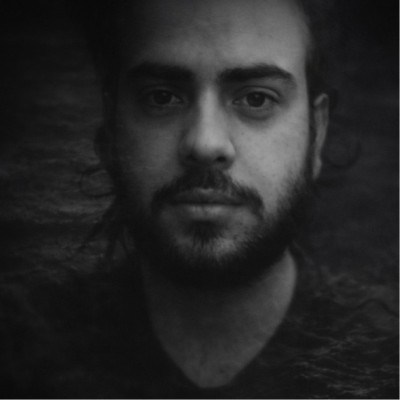
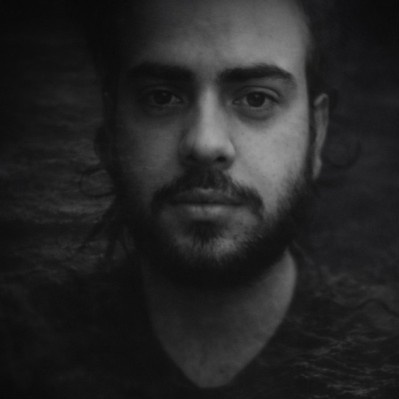
Cards claros no topo e no Metodo, na cor das ilustracoes
A grade colada por linha de 1px criava um emaranhado de divisorias que
competia com a divisoria util, a do resultado. Agora sao cartoes
separados sobre fundo claro, com o mesmo canto arredondado do retrato e
das capas de projeto.

- fundo #e6e2de, amostrado do fundo das proprias ilustracoes
- o laranja da marca da 1,79:1 sobre esse claro e reprova como texto,
  entao as superficies claras usam um laranja escurecido, #8f4400, com
  5,44:1, e cinza #4f5955 no corpo, com 5,63:1
- titulos encurtados para caber em uma linha nas colunas estreitas
- retrato um pouco maior e sem a linha clara de 1px que vinha no arquivo
  original na borda direita e inferior

Changed region(s): [[0.0, 0.0, 1.0, 1.0]]

diff --git a/src/content/profile.ts b/src/content/profile.ts
@@ -30,28 +30,28 @@ export const method: { title: string; principles: Principle[] } = {
   title: "Como eu trabalho",
   principles: [
     {
-      title: "Troca de sistema sem derrubar quem está usando",
+      title: "Troca de sistema sem derrubar ninguém",
       body: "Substituir uma plataforma inteira de uma vez é a forma mais cara de descobrir um erro: quando algo quebra, quebra para todo mundo ao mesmo tempo. Prefiro migrar uma área por vez, com o sistema antigo e o novo funcionando lado a lado, e liberar a versão nova primeiro para uma parte dos usuários. Se o resultado piorar, ela volta ao normal na hora.",
       accent: "signal" as const,
       icon: "entrega" as const,
       result: "Uma área com problema sai do ar em segundos, sem esperar por uma nova publicação.",
     },
     {
-      title: "Tela certa e tela utilizável não são a mesma coisa",
+      title: "Tela certa não é tela utilizável",
       body: "Teste automatizado comum verifica se o botão responde, não se a pessoa consegue ler o que está na frente dela. Em um marketplace que construí, a bateria de testes barrou cinco problemas antes de chegarem ao usuário — e um deles era um texto vazando para fora da tela em telas menores: tudo funcionava, nada se lia.",
       accent: "signal" as const,
       icon: "qualidade" as const,
       result: "Cinco problemas que chegariam ao usuário foram barrados antes do lançamento.",
     },
     {
-      title: "Em produto que cobra, a conta precisa fechar",
+      title: "Em produto que cobra, a conta fecha",
       body: "Dois erros clássicos custam dinheiro de verdade. O primeiro é a sobra de centavo, que some numa venda e aparece quando são milhares. O segundo é o usuário com internet instável que aperta o botão de pagar duas vezes — e paga duas vezes. Resolvo os dois na arquitetura, antes de existir tela: o sistema reconhece a segunda tentativa como a mesma e não cobra de novo.",
       accent: "signal" as const,
       icon: "dados" as const,
       result: "Nenhuma cobrança duplicada quando o usuário repete o pagamento.",
     },
     {
-      title: "Decisão de interface se defende com dado, não com opinião",
+      title: "Interface se defende com dado",
       body: "Acho que a tela ficou melhor não é argumento. Eu meço onde a pessoa desiste no meio do caminho, coloco a versão nova no ar para uma parte dos usuários e comparo o comportamento real das duas antes de abrir para todos. Número encerra discussão que reunião não encerra.",
       accent: "signal" as const,
       icon: "metodo" as const,

diff --git a/src/components/Hero.tsx b/src/components/Hero.tsx
@@ -1,7 +1,7 @@
 import Image from "next/image";
 import { headline, intro, services } from "@/content/profile";
 import { portrait } from "@/content/site";
-import { Container, accentText } from "./primitives";
+import { Container } from "./primitives";
 import { Icon } from "./icons";
 
 export function Hero() {
@@ -32,7 +32,7 @@ export function Hero() {
 
           {portrait.enabled && (
             <div
-              className="rise order-first w-36 shrink-0 sm:w-44 lg:order-none lg:w-[15rem]"
+              className="rise order-first w-36 shrink-0 sm:w-44 lg:order-none lg:w-[17rem]"
               style={{ animationDelay: "160ms" }}
             >
               <Image
@@ -49,20 +49,16 @@ export function Hero() {
         </div>
 
         <div
-          className="rise mt-16 grid gap-px overflow-hidden rounded-xl border border-rule bg-rule lg:grid-cols-3"
+          className="rise mt-16 grid gap-5 lg:grid-cols-3"
           style={{ animationDelay: "500ms" }}
         >
           {services.map((service) => (
-            <article key={service.title} className="bg-surface p-7 sm:p-8">
-              <Icon name={service.icon} size={34} className={accentText[service.accent]} />
-              <h2
-                className={`mt-5 text-lg font-semibold leading-snug tracking-[-0.015em] ${
-                  accentText[service.accent]
-                }`}
-              >
+            <article key={service.title} className="rounded-2xl bg-paper p-7 sm:p-8">
+              <Icon name={service.icon} size={34} className="text-paper-signal" />
+              <h2 className="mt-5 text-balance text-lg font-semibold leading-snug tracking-[-0.015em] text-paper-signal">
                 {service.title}
               </h2>
-              <p className="mt-3 text-base leading-[1.6] text-ink-soft">{service.body}</p>
+              <p className="mt-3 text-base leading-[1.6] text-paper-soft">{service.body}</p>
             </article>
           ))}
         </div>

diff --git a/src/components/sections.tsx b/src/components/sections.tsx
@@ -138,29 +138,21 @@ export function ExperienceTimeline() {
 export function Method() {
   return (
     <Section id="metodo" title={method.title} icon="metodo" accent="probe">
-      <div className="grid gap-px overflow-hidden rounded-sm border border-rule bg-rule lg:grid-cols-2">
+      <div className="grid gap-5 lg:grid-cols-2">
         {method.principles.map((principle) => (
-          <article key={principle.title} className="flex flex-col bg-surface p-7 sm:p-8">
-            <Icon
-              name={principle.icon}
-              size={34}
-              className={accentText[principle.accent]}
-            />
+          <article key={principle.title} className="flex flex-col rounded-2xl bg-paper p-7 sm:p-8">
+            <Icon name={principle.icon} size={34} className="text-paper-signal" />
 
-            <h3
-              className={`mt-5 text-balance text-xl font-semibold leading-snug tracking-[-0.015em] ${
-                accentText[principle.accent]
-              }`}
-            >
+            <h3 className="mt-5 text-balance text-xl font-semibold leading-snug tracking-[-0.015em] text-paper-signal">
               {principle.title}
             </h3>
 
-            <p className="mt-4 flex-1 text-base leading-[1.7] text-ink-soft">
+            <p className="mt-4 flex-1 text-base leading-[1.7] text-paper-soft">
               {principle.body}
             </p>
 
-            <p className="mt-6 flex items-start gap-3 border-t border-rule pt-5 text-base leading-[1.5] text-ink">
-              <Icon name="resultado" size={20} className="mt-0.5 text-signal" />
+            <p className="mt-6 flex items-start gap-3 border-t border-paper-rule pt-5 text-base leading-[1.5] text-paper-ink">
+              <Icon name="resultado" size={20} className="mt-0.5 text-paper-signal" />
               {principle.result}
             </p>
           </article>

diff --git a/src/app/globals.css b/src/app/globals.css
@@ -13,6 +13,12 @@
 
   --color-signal: #fd7901;
   --color-signal-dim: #70380a;
+  --color-paper: #e6e2de;
+  --color-paper-rule: #c9c2bb;
+  --color-paper-ink: #1f2a25;
+  --color-paper-soft: #4f5955;
+  --color-paper-signal: #8f4400;
+
   --color-probe: #56c5dd;
   --color-live: #5fd39a;
   --color-craft: #b092ee;

diff --git a/src/content/site.ts b/src/content/site.ts
@@ -39,7 +39,7 @@ export const nav = [
 export const portrait = {
   src: "/claudio.jpg",
   alt: "Claudio Alvarenga",
-  width: 400,
-  height: 400,
+  width: 399,
+  height: 399,
   enabled: true,
 } as const;
